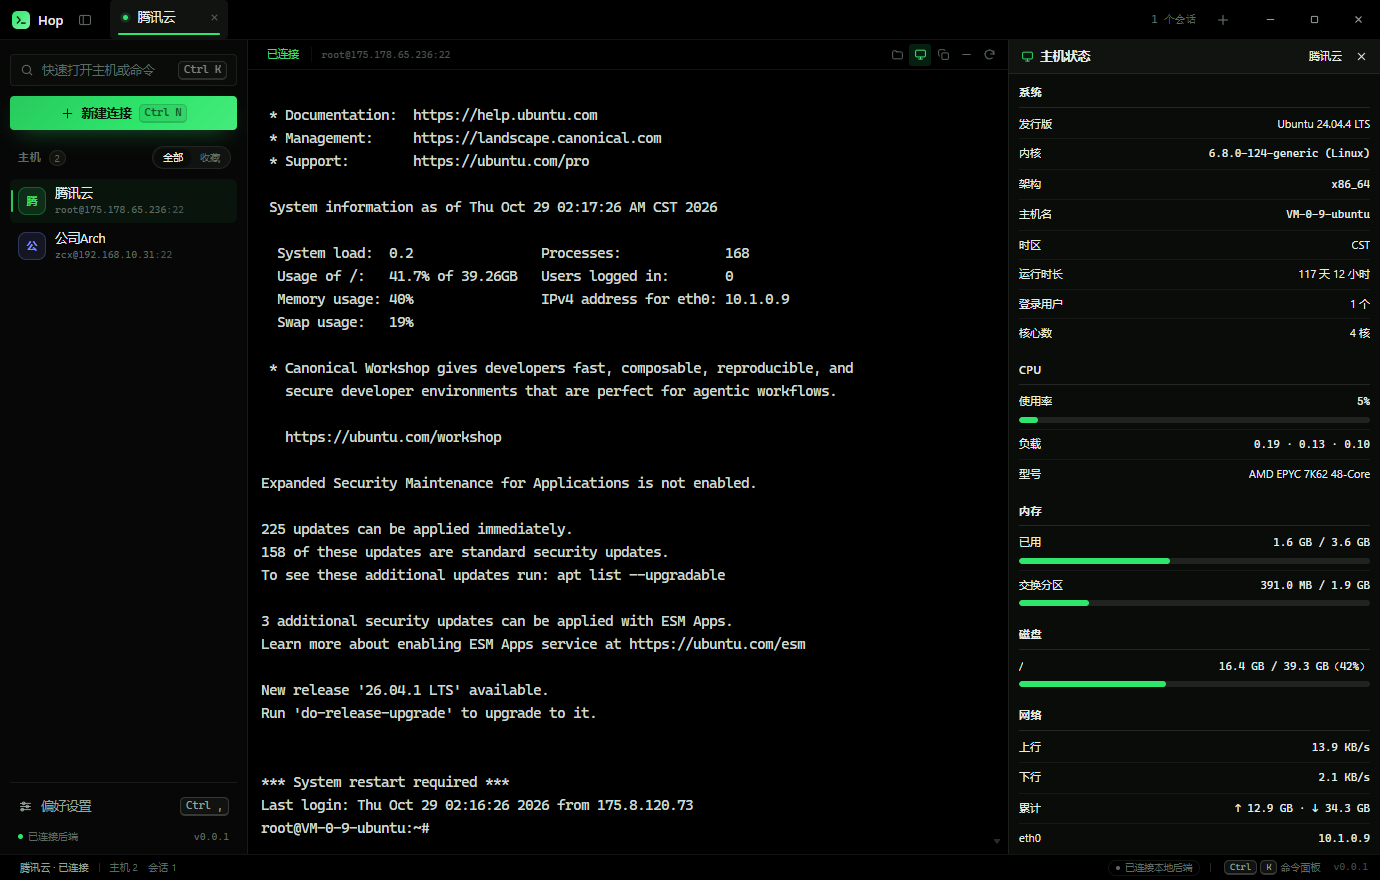
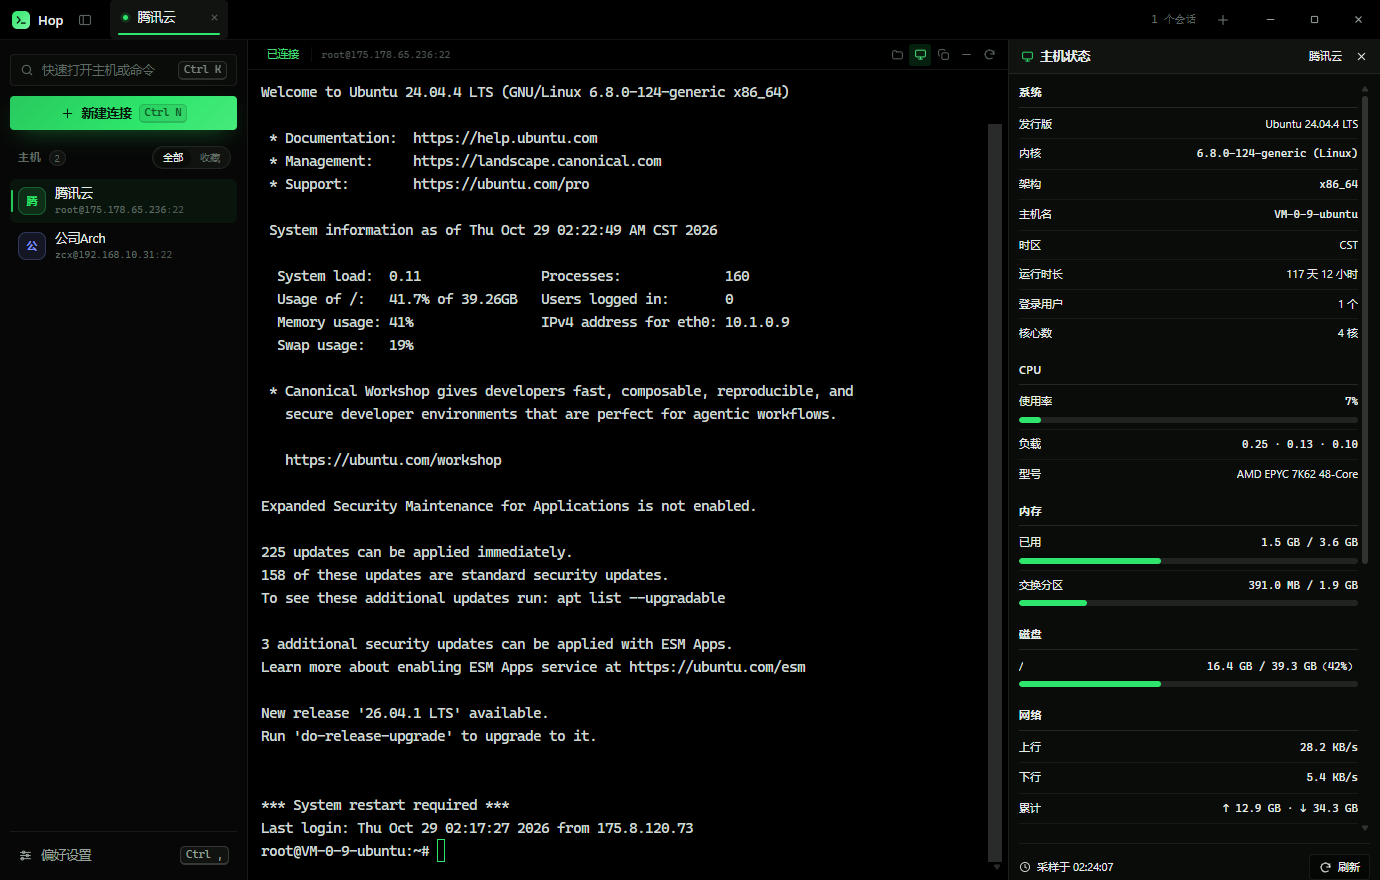
feat(ui): 主机状态改为逐行纵向排列，移除底部状态栏与侧栏元信息；监控区独立滚动、切换目录加过渡动效

diff --git a/src/components/MonitorView.tsx b/src/components/MonitorView.tsx
@@ -138,20 +138,21 @@ export function MonitorView({ host }: MonitorViewProps) {
 
   return (
     <div className="monitor">
-      {error && (
-        <div className="monitor__error" role="alert">
-          <Icon name="alert" size={13} /> {error}
-        </div>
-      )}
+      <div className="monitor__scroll">
+        {error && (
+          <div className="monitor__error" role="alert">
+            <Icon name="alert" size={13} /> {error}
+          </div>
+        )}
 
-      {!metrics && !error && (
-        <div className="monitor__loading">
-          <Spinner size={16} /> 正在采样…
-        </div>
-      )}
+        {!metrics && !error && (
+          <div className="monitor__loading">
+            <Spinner size={16} /> 正在采样…
+          </div>
+        )}
 
-      {metrics && (
-        <>
+        {metrics && (
+          <>
           {metrics.unsupported && (
             <p className="monitor__note">
               远端没有 <code>/proc</code>（例如 BSD 或 Windows 主机），只能显示连接状态。
@@ -276,8 +277,9 @@ export function MonitorView({ host }: MonitorViewProps) {
               ))}
             </Group>
           )}
-        </>
-      )}
+          </>
+        )}
+      </div>
 
       <footer className="monitor__footer">
         <span className="monitor__footer-note">

diff --git a/src/App.tsx b/src/App.tsx
@@ -4,11 +4,10 @@ import { TitleBar } from './components/TitleBar';
 import { Sidebar } from './components/Sidebar';
 import { TerminalPane } from './components/TerminalPane';
 import { Welcome } from './components/Welcome';
-import { StatusBar } from './components/StatusBar';
+import { Dock } from './components/Dock';
 import { CommandPalette } from './components/CommandPalette';
 import { HostFormDialog } from './components/HostFormDialog';
 import { SettingsPanel } from './components/SettingsPanel';
-import { Dock } from './components/Dock';
 import { ConfirmDialog } from './components/ConfirmDialog';
 import { Toasts } from './components/ui/Toasts';
 import './App.css';
@@ -150,8 +149,6 @@ export default function App() {
 
         <Dock />
       </main>
-
-      <StatusBar />
 
       <button
         type="button"

diff --git a/src/components/Sidebar.tsx b/src/components/Sidebar.tsx
@@ -1,5 +1,4 @@
 import { useMemo, type CSSProperties } from 'react';
-import { isMock } from '../api/config';
 import { hostAccent, hostInitials } from '../lib/visual';
 import { useApp } from '../store/AppStore';
 import { Icon } from './ui/Icon';
@@ -72,12 +71,6 @@ export function Sidebar() {
             <span>偏好设置</span>
             <Kbd>{modKey} ,</Kbd>
           </button>
-          <div className="sidebar__foot-meta">
-            <span className={`sidebar__mode${isMock() ? ' is-mock' : ''}`}>
-              {isMock() ? '演示模式' : '已连接后端'}
-            </span>
-            <span className="mono">v{__APP_VERSION__}</span>
-          </div>
         </footer>
       </div>
 

diff --git a/src/styles/shell.css b/src/styles/shell.css
@@ -7,7 +7,7 @@
   position: relative;
   display: grid;
   grid-template-columns: var(--sidebar-w) minmax(0, 1fr);
-  grid-template-rows: var(--titlebar-h) minmax(0, 1fr) var(--statusbar-h);
+  grid-template-rows: var(--titlebar-h) minmax(0, 1fr);
   height: 100dvh;
   overflow: hidden;
   background: var(--bg);
@@ -36,11 +36,6 @@
   grid-row: 2;
 }
 
-.app-shell > .statusbar {
-  grid-column: 1 / -1;
-  grid-row: 3;
-}
-
 .workspace {
   position: relative;
   display: grid;
@@ -66,7 +61,7 @@
     grid-column: 1;
     position: fixed;
     top: var(--titlebar-h);
-    bottom: var(--statusbar-h);
+    bottom: 0;
     left: 0;
     width: var(--sidebar-w);
     z-index: var(--z-sidebar);

diff --git a/src/components/Sidebar.css b/src/components/Sidebar.css
@@ -155,33 +155,6 @@
   color: var(--text);
 }
 
-.sidebar__foot-meta {
-  display: flex;
-  align-items: center;
-  justify-content: space-between;
-  padding: 0 8px;
-  font-size: 10px;
-  color: var(--text-3);
-}
-
-.sidebar__mode {
-  display: inline-flex;
-  align-items: center;
-  gap: 5px;
-}
-
-.sidebar__mode::before {
-  content: '';
-  width: 5px;
-  height: 5px;
-  border-radius: 50%;
-  background: var(--success);
-}
-
-.sidebar__mode.is-mock::before {
-  background: var(--warning);
-}
-
 /* ---------- 折叠轨 ---------- */
 .sidebar__rail {
   display: none;

diff --git a/src/components/FilesBrowser.tsx b/src/components/FilesBrowser.tsx
@@ -288,7 +288,8 @@ export function FilesBrowser({ host }: FilesBrowserProps) {
         </div>
       )}
 
-      <div className="files__table" role="table" aria-label="远程文件">
+      {/* key 变化会让表格重新挂载：切换目录时播放淡入上移的过渡，并回到顶部 */}
+      <div key={path} className="files__table" role="table" aria-label="远程文件">
         <div className="files__row files__row--head" role="row">
           <span role="columnheader">名称</span>
           <span role="columnheader">大小</span>

diff --git a/src/components/FilesPanel.css b/src/components/FilesPanel.css
@@ -76,6 +76,25 @@
   flex-direction: column;
   border: 1px solid var(--border);
   border-radius: var(--radius-sm);
+  animation: files-enter 180ms var(--ease-out) both;
+}
+
+/* 目录切换：内容整体淡入并轻轻上移 */
+@keyframes files-enter {
+  from {
+    opacity: 0;
+    transform: translateY(6px);
+  }
+  to {
+    opacity: 1;
+    transform: none;
+  }
+}
+
+@media (prefers-reduced-motion: reduce) {
+  .files__table {
+    animation: none;
+  }
 }
 
 .files__row {

diff --git a/src/components/MonitorPanel.css b/src/components/MonitorPanel.css
@@ -1,7 +1,23 @@
 .monitor {
+  flex: 1;
+  min-height: 0;
+  display: flex;
+  flex-direction: column;
+  gap: 10px;
+  overflow: hidden;
+}
+
+/* 只有信息区滚动，底部采样/刷新条固定可见 */
+.monitor__scroll {
+  flex: 1;
+  min-height: 0;
   display: flex;
   flex-direction: column;
   gap: 14px;
+  overflow-y: auto;
+  overscroll-behavior: contain;
+  padding-right: 2px;
+  padding-bottom: 6px;
 }
 
 /* ---------- 一行一个信息 ---------- */

diff --git a/src/components/SettingsPanel.tsx b/src/components/SettingsPanel.tsx
@@ -67,6 +67,7 @@ export function SettingsPanel() {
             <Icon name="check" size={12} /> 自动保存
           </span>
           <div className="settings-panel__footer-actions">
+            <span className="settings-panel__version mono">v{__APP_VERSION__}</span>
             <Button
               variant="ghost"
               size="sm"

diff --git a/src/components/SettingsPanel.css b/src/components/SettingsPanel.css
@@ -269,6 +269,12 @@
   gap: var(--space-2);
 }
 
+.settings-panel__version {
+  margin-right: var(--space-2);
+  font-size: var(--text-xs);
+  color: var(--text-3);
+}
+
 /* ---------- 响应式 ---------- */
 @media (max-width: 480px) {
   .settings-grid {

diff --git a/src/components/ui/Toasts.css b/src/components/ui/Toasts.css
@@ -1,7 +1,7 @@
 .toasts {
   position: fixed;
   right: var(--space-5);
-  bottom: calc(var(--statusbar-h) + var(--space-4));
+  bottom: var(--space-4);
   z-index: var(--z-toast);
   display: flex;
   flex-direction: column;

diff --git a/src/styles/tokens.css b/src/styles/tokens.css
@@ -56,7 +56,6 @@
   --titlebar-h: 40px;
   --sidebar-w: 248px;
   --sidebar-w-collapsed: 64px;
-  --statusbar-h: 26px;
 }
 
 /* ============================ 纯黑 + 绿 ============================ */
